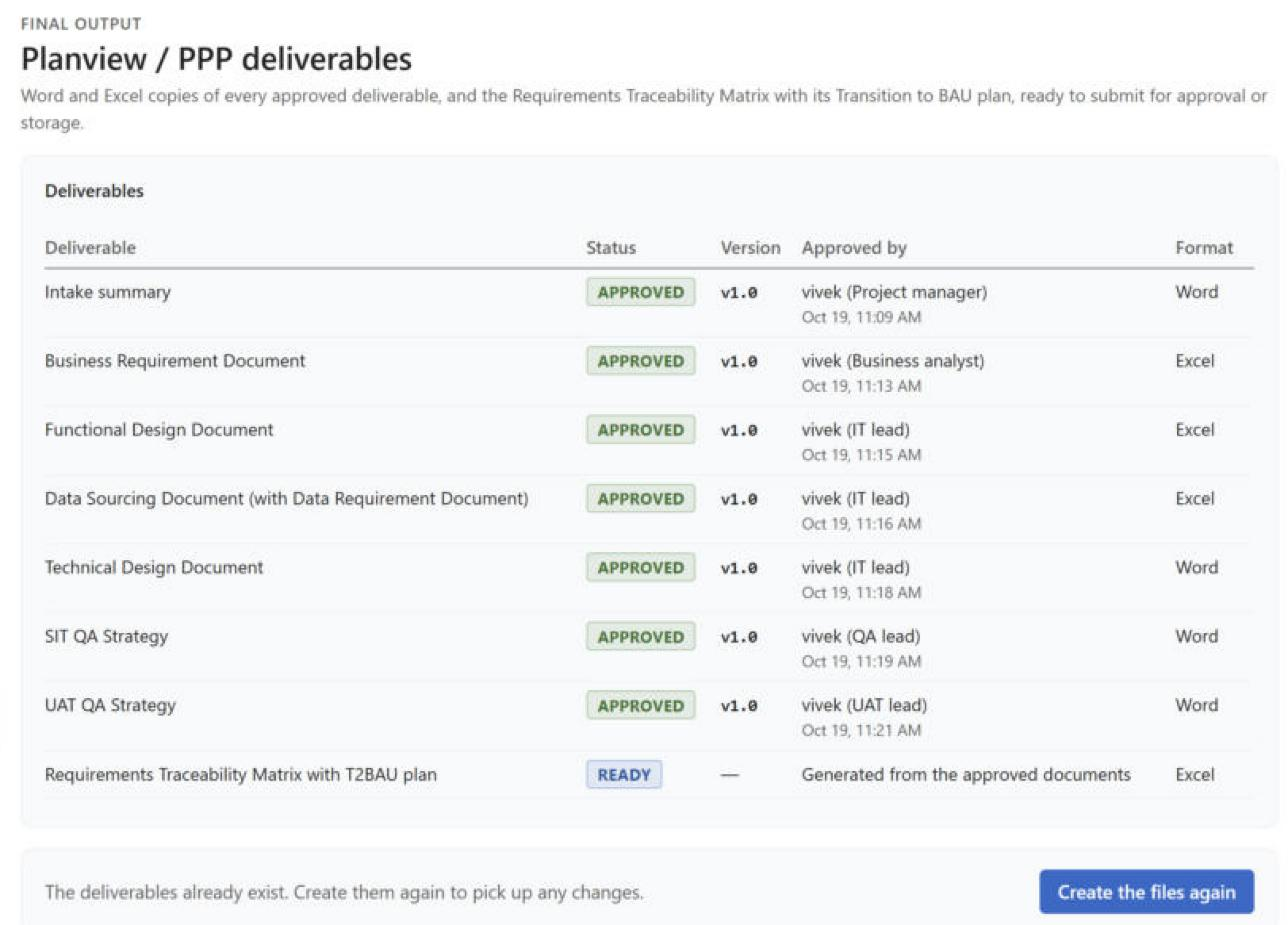
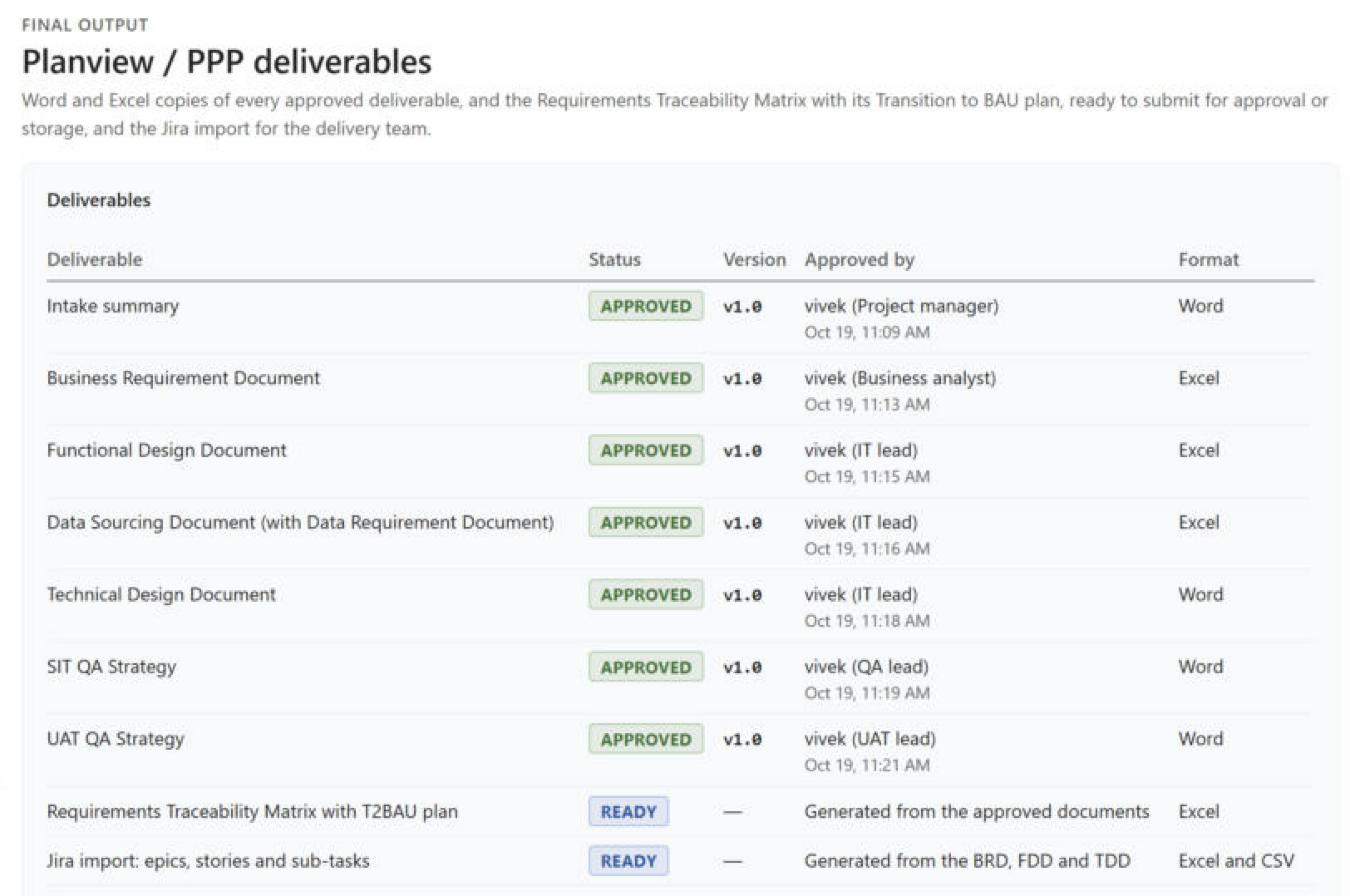
Add screenshots to the READMEs and show the Jira import on the Export page

diff --git a/packages/vscode-extension/README.md b/packages/vscode-extension/README.md
@@ -1,6 +1,8 @@
 # SDLC CAPM
 
-Writes MUFG's PDLC Planning deliverables (BRD, FDD, DRD/DSD, TDD, and the SIT and UAT QA Strategies) and the RTM with its Transition to BAU plan, using GitHub Copilot, with a named owner approving each one. The approved deliverables are exported as Word and Excel files for Planview or PPP.
+Writes MUFG's PDLC Planning deliverables (BRD, FDD, DRD/DSD, TDD, and the SIT and UAT QA Strategies) and the RTM with its Transition to BAU plan, using GitHub Copilot, with a named owner approving each one. The approved deliverables are exported as Word and Excel files for Planview or PPP, with a Jira import of epics, stories and sub-tasks for the delivery team.
+
+![The SDLC CAPM screen with a deliverable waiting for its owner's review](https://raw.githubusercontent.com/vivekprojects-GIT/SDLC-Automation/main/docs/images/screen-review.jpg)
 
 Open the `SDLC_CAPM` folder in VS Code, then click **SDLC CAPM** in the status bar or run **SDLC CAPM: Open SDLC CAPM** from the Command Palette.
 

diff --git a/docs/user-guide.md b/docs/user-guide.md
@@ -231,9 +231,9 @@ Everything is written to the project's `outputs` folder.
 | `jira-import.csv` | The file Jira's CSV import reads |
 | `jira-import.xlsx` | Excel: the same issues to review, the import steps and Document control |
 
-![The Export page listing the seven approved deliverables and the RTM, with their formats](images/screen-export.jpg)
+![The Export page listing the seven approved deliverables, the RTM and the Jira import, with their formats](images/screen-export.jpg)
 
-*The Export page: each deliverable with its version, approver and format, and the RTM generated from them.*
+*The Export page: each deliverable with its version, approver and format, then the RTM and the Jira import generated from them.*
 
 Every Word file opens with a **Document control** table, and every workbook with a **Document control** tab: the document, project, version, status, owner, who approved it and when, and which agent and model wrote it. Word and Excel files open in Office from the Export page.
 

diff --git a/README.md b/README.md
@@ -16,6 +16,14 @@ Writes MUFG's PDLC Planning-phase deliverables with GitHub Copilot, in MUFG's la
 | — | RTM with T2BAU plan | Generated | Excel |
 | — | Jira import: epics, stories and sub-tasks | Generated | Excel and CSV |
 
+![The SDLC CAPM screen with the UAT QA Strategy waiting for the UAT lead's review](docs/images/screen-review.jpg)
+
+*A deliverable waiting for its owner: the pipeline on the left, the draft with its guardrail checks in the middle, and approvals and traceability on the right.*
+
+![The Export page listing the seven approved deliverables, the RTM and the Jira import, with their formats](docs/images/screen-export.jpg)
+
+*The Export page: every deliverable with its version, approver and format, then the RTM and the Jira import generated from them.*
+
 ## Start here
 
 | If you want to… | Read |
